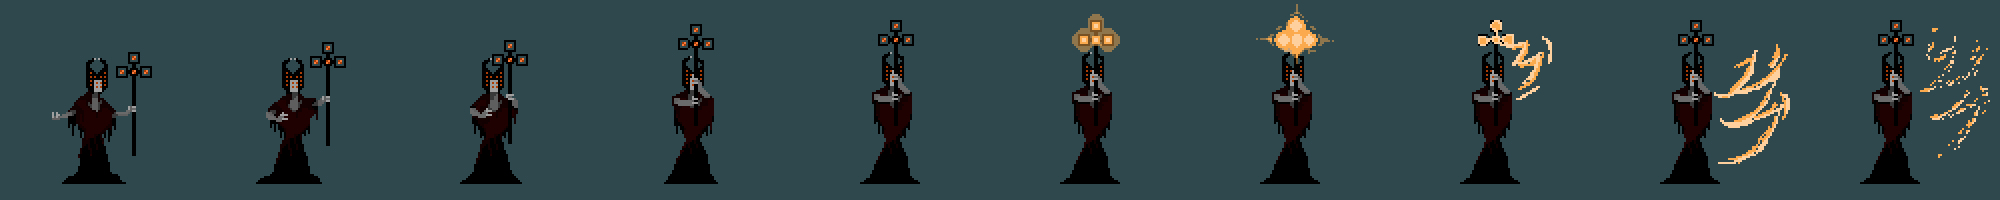
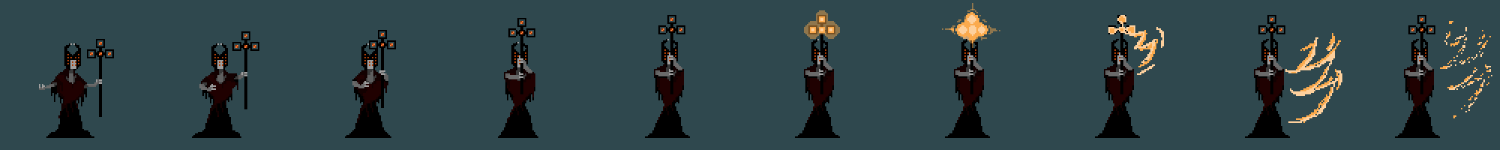
witch.py 수정

diff --git a/witch.py b/witch.py
@@ -27,19 +27,17 @@ HIT, RANGE, DEAD, READY, SLEEP, WALK, DEFENCE = range(7)
 class IdleState:
 
     def enter(boy, event):
-        boy.timer = 1000
+        pass
 
     def exit(boy, event):
         pass
 
     def do(boy):
-        boy.frame = (boy.frame + FRAMES_PER_ACTION * ACTION_PER_TIME * game_framework.frame_time) % 18
-        boy.timer -= 1
-        if boy.timer == 0:
-            boy.add_event(SLEEP)
+        boy.frame = (boy.frame + 0.7 * FRAMES_PER_ACTION * ACTION_PER_TIME * game_framework.frame_time) % 10
+
 
     def draw(boy):
-        boy.image.clip_draw(int(boy.frame) * 100, 0, 100, 100, boy.x, boy.y)
+        boy.image.clip_draw(int(boy.frame) * 150, 0, 150, 150, boy.x, boy.y)
 
 
 class RunState:
@@ -124,30 +122,30 @@ class AttackState:
         else:
             self.attack_l.clip_draw(int(26 - self.frame) * 100, 0, 100, 100, self.x, self.y)
 
-
-class DefenceState:
-    def enter(self, event):
-        self.timer = 200
-
-    def exit(gretel, event):
-        pass
-
-    def do(self):
-        self.frame = (self.frame + 0.05 * FRAMES_PER_ACTION * ACTION_PER_TIME * game_framework.frame_time) % 4
-        self.velocity = -RUN_SPEED_PPS
-        self.timer -= 10
-        if self.timer == 0:
-            self.velocity += RUN_SPEED_PPS
-            self.add_event(READY)
-        self.x += self.velocity * game_framework.frame_time
-        self.x = clamp(15, self.x, 800 - 15)
-        # self.camera_move()
-
-    def draw(self):
-        if self.dir == 1:
-            self.defence.clip_draw(int(self.frame) * 100, 0, 100, 100, self.x, self.y)
-        else:
-            self.defence.clip_draw(int(self.frame) * 100, 0, 100, 100, self.x, self.y)
+#
+# class DefenceState:
+#     def enter(self, event):
+#         self.timer = 200
+#
+#     def exit(gretel, event):
+#         pass
+#
+#     def do(self):
+#         self.frame = (self.frame + 0.05 * FRAMES_PER_ACTION * ACTION_PER_TIME * game_framework.frame_time) % 4
+#         self.velocity = -RUN_SPEED_PPS
+#         self.timer -= 10
+#         if self.timer == 0:
+#             self.velocity += RUN_SPEED_PPS
+#             self.add_event(READY)
+#         self.x += self.velocity * game_framework.frame_time
+#         self.x = clamp(15, self.x, 800 - 15)
+#         # self.camera_move()
+#
+#     def draw(self):
+#         if self.dir == 1:
+#             self.defence.clip_draw(int(self.frame) * 100, 0, 100, 100, self.x, self.y)
+#         else:
+#             self.defence.clip_draw(int(self.frame) * 100, 0, 100, 100, self.x, self.y)
 
 
 # next_state_table = {
@@ -167,16 +165,15 @@ class DefenceState:
 class Witch:
 
     def __init__(self):
-        self.x, self.y = 800 // 2, 150
+        self.x, self.y = 600, 150
         # Boy is only once created, so instance image loading is fine
-        self.run_r = load_image('gretel run sheet.png')
-        self.run_l = load_image('gretel run_left sheet.png')
-        self.jump = load_image('gretel jump sheet.png')
-        self.attack_r = load_image('gretel attack sheet.png')
-        self.attack_l = load_image('gretel attack_left sheet.png')
-        self.defence = load_image('gretel defence sheet.png')
-        self.died = load_image('gretel hurt sheet.png')
-        self.image = load_image('gretel stop sheet.png')
+        # self.run_r = load_image('gretel run sheet.png')
+        # self.run_l = load_image('gretel run_left sheet.png')
+        # self.jump = load_image('gretel jump sheet.png')
+        # self.attack_r = load_image('gretel attack sheet.png')
+        # self.attack_l = load_image('gretel attack_left sheet.png')
+        # self.died = load_image('gretel hurt sheet.png')
+        self.image = load_image('witch attack.png')
         # self.font = load_font('ENCR10B.TTF', 16)
         self.dir = 1
         self.high = 0

diff --git a/main_state.py b/main_state.py
@@ -9,6 +9,7 @@ import game_world
 from boy import Boy
 from grass import Grass
 from inventory import Inven
+from witch import Witch
 # from skeleton import Skeleton
 
 name = "MainState"
@@ -20,8 +21,10 @@ def enter():
     boy = Boy()
     grass = Grass()
     inven = Inven()
+    # witch = Witch()
     # skeleton = Skeleton()
     game_world.add_object(grass, 0)
+    # game_world.add_object(witch, 1)
     game_world.add_object(boy, 1)
     game_world.add_object(inven, 1)
     # game_world.add_object(skeleton, 1)
